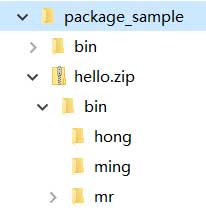
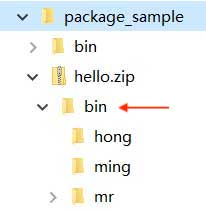
minor fix classpath & jar.

diff --git a/source/books/java/30-oop/10-basic/120-classpath-jar/README.md b/source/books/java/30-oop/10-basic/120-classpath-jar/README.md
@@ -123,7 +123,7 @@ package_sample
 
 ![hello.zip.invalid](bad-jar.jpg)
 
-说明打包打得有问题，JVM仍然无法从jar包中查找正确的`class`，原因是`hong.Person`必须按`hong/Person.class`存放，而不是`bin/hong/Person.class`。
+上面的`hello.zip`包含有`bin`目录，说明打包打得有问题，JVM仍然无法从jar包中查找正确的`class`，原因是`hong.Person`必须按`hong/Person.class`存放，而不是`bin/hong/Person.class`。
 
 jar包还可以包含一个特殊的`/META-INF/MANIFEST.MF`文件，`MANIFEST.MF`是纯文本，可以指定`Main-Class`和其它信息。JVM会自动读取这个`MANIFEST.MF`文件，如果存在`Main-Class`，我们就不必在命令行指定启动的类名，而是用更方便的命令：
 
@@ -131,14 +131,14 @@ jar包还可以包含一个特殊的`/META-INF/MANIFEST.MF`文件，`MANIFEST.MF
 java -jar hello.jar
 ```
 
-在大型项目中，不可能手动编写`MANIFEST.MF`文件，再手动创建zip包。Java社区提供了大量的开源构建工具，例如[Maven](../../maven/index.html)，可以非常方便地创建jar包。
+在大型项目中，不可能手动编写`MANIFEST.MF`文件，再手动创建jar包。Java社区提供了大量的开源构建工具，例如[Maven](../../maven/index.html)，可以非常方便地创建jar包。
 
 ### 小结
 
 JVM通过环境变量`classpath`决定搜索`class`的路径和顺序；
 
-不推荐设置系统环境变量`classpath`，始终建议通过`-cp`命令传入；
+强烈建议**不要设置**系统环境变量`classpath`，建议始终通过`-cp`命令传入；
 
-jar包相当于目录，可以包含很多`.class`文件，方便下载和使用；
+jar包本质上是zip格式，相当于目录，可以包含很多`.class`文件，方便下载和使用；
 
 `MANIFEST.MF`文件可以提供jar包的信息，如`Main-Class`，这样可以直接运行jar包。
